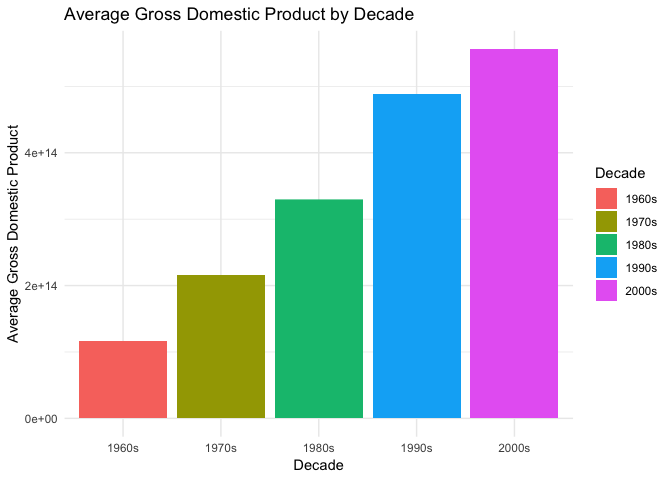
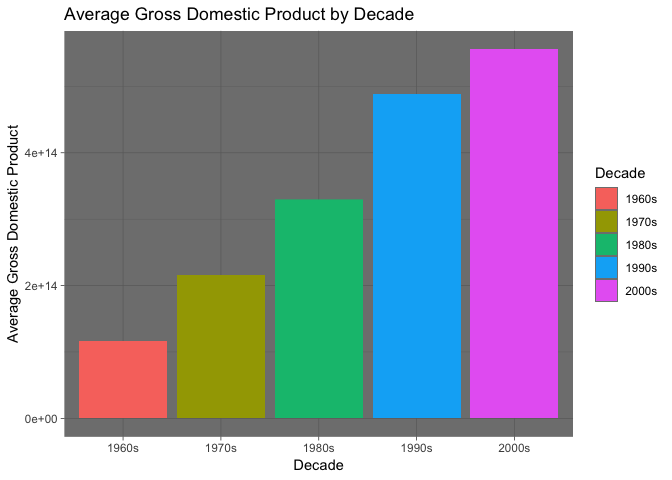
Updated readme + added explanations to worldbank

diff --git a/world_bank.md b/world_bank.md
@@ -7,27 +7,36 @@ Load necessary libraries
 ------------------------
 
 ``` r
+#loading packages I might use 
 library(tidyverse)
 library(here)
 library(questionr)
 library(lubridate)
-theme_set(theme_minimal())
+#trying out a new theme for this assignment
+theme_set(theme_dark())
 ```
 
 Write a function to import the data files
 -----------------------------------------
 
 ``` r
+#create function to read files
 readtidy <- function(a){
+#read the files, skipping the first for rows
   readfile <- read_csv(file = a, skip = 4) 
+#tidying the data
      tidy <- readfile %>%
      rename(Country = "Country Name", cd = "Country Code", id = "Indicator Name",
             Indicator = "Indicator Code") %>% 
     gather(key = Year, value = values, "1960":"2016")  %>% 
     subset(select = -c(cd, id, X62)) %>% 
     spread(key = Indicator, value = values) %>%
+#change years from character to integer
     mutate("Year" = as.integer(Year)) %>%
+#select which variables I want to explore 
+#urban population rate, GDP, life expectancy, infant mortality 
     distinct(Country, Year, EN.URB.MCTY.TL.ZS, SP.DYN.LE00.IN, NY.GDP.MKTP.KN, SP.DYN.IMRT.IN) %>%
+#rename the variables
     rename(Urban = "EN.URB.MCTY.TL.ZS", LifeExp = "SP.DYN.LE00.IN", 
            GDP = "NY.GDP.MKTP.KN", InfMort="SP.DYN.IMRT.IN")
   return(tidy)
@@ -38,10 +47,15 @@ Import the data
 ---------------
 
 ``` r
+#identify dataframes
 worldbank <- dir("data_world_bank", 
           pattern = ".csv", 
           full.names = TRUE) 
+
+#import files using an iterative operation
 worldbank <- map_df(worldbank, readtidy)
+
+#bind the data into a single frame
 wb <- bind_rows(worldbank)
 ```
 
@@ -49,6 +63,7 @@ Explore the data
 ----------------
 
 ``` r
+#add decade variable
 wb <- wb %>%
   mutate(Decade = ifelse(Year %in% 1960:1969, "1960s",
         ifelse(Year %in% 1970:1979, "1970s",
@@ -58,8 +73,10 @@ wb <- wb %>%
         ifelse(Year %in% 2010:2016, "2010s", "N/A" )))))))
 
 wb %>%
-filter(Decade != "2010s") %>%
+#filter out 2010s so I can find average by dividing by 10
+filter(Decade != "2010s") %>% 
   mutate(AGDP = GDP/10) %>%
+  #plot GDP by decade
   ggplot(mapping = aes(x = Decade , y = AGDP, fill = Decade)) +
   geom_col() +
   labs(title = "Average Gross Domestic Product by Decade", 
@@ -73,6 +90,7 @@ filter(Decade != "2010s") %>%
 The plot above shows the average Gross Domestic product of all fifteen countries from 1960 to 2009. We can see a strong positive correlation between later decades and an increase in overall GDP.
 
 ``` r
+#plot percent urban population vs. life expectancy by country
 wb %>%
   ggplot(mapping = aes(x = Urban, y = LifeExp, color = Country)) +
   geom_point() +
@@ -87,6 +105,7 @@ wb %>%
 This plot shows that, for most countries in this dataset, as the rates of people living in urban areas increases, so too does the average life expectancy.
 
 ``` r
+#plot percent infant mortality vs. life expectancy by country
 wb %>%
   ggplot(mapping = aes(x = LifeExp, y = InfMort, color = Country)) +
   geom_point() +
@@ -98,11 +117,14 @@ wb %>%
 
 ![](world_bank_files/figure-markdown_github/unnamed-chunk-6-1.png)
 
-This plot shows that, for most of the countries in this dataset, there is a strong negative correlation between life expectancy and infant mortality rate. That is, when the average life expectancy goes up, the infant mortality rate goes down.
+The plot shows that, for most of the countries in this dataset, there is a strong negative correlation between life expectancy and infant mortality rate. That is, when the average life expectancy goes up, the infant mortality rate goes down.
 
 ``` r
-wb %>% filter(Decade != "2010s") %>%
+wb %>% 
+#filter out 2010s so I can find average by dividing by 10
+  filter(Decade != "2010s") %>%
   mutate(ALE = LifeExp/10) %>%
+#plot avg. life expectancy each decade by country
   ggplot(mapping = aes(x = Country , y = ALE, fill = Country)) +
   geom_col() +
   facet_wrap(~ Decade) +
@@ -114,7 +136,7 @@ wb %>% filter(Decade != "2010s") %>%
 
 ![](world_bank_files/figure-markdown_github/unnamed-chunk-7-1.png)
 
-This chart shows the average life expectancy in each country in the data set by decade. This shows that, on average, the the life expectancy went up each decade. However, this also demonstrates that country is a larger factor in life expectancy than decade, rates over each decade tend to stay relatively similar, increasing only slightly compared to overall variance in life expectancy.
+The chart above shows the average life expectancy in each country in the data set by decade. This shows that, on average, the the life expectancy went up each decade. However, this also demonstrates that country is a larger factor in life expectancy than decade, rates over each decade tend to stay relatively similar, increasing only slightly compared to overall variance in life expectancy.
 
 Session info
 ------------

diff --git a/README.md b/README.md
@@ -1,6 +1,5 @@
-# Homework 04: Programming
-================
-
+Homework #4: Programming
+-------------
 By Jess Robinson
 -------------
 
